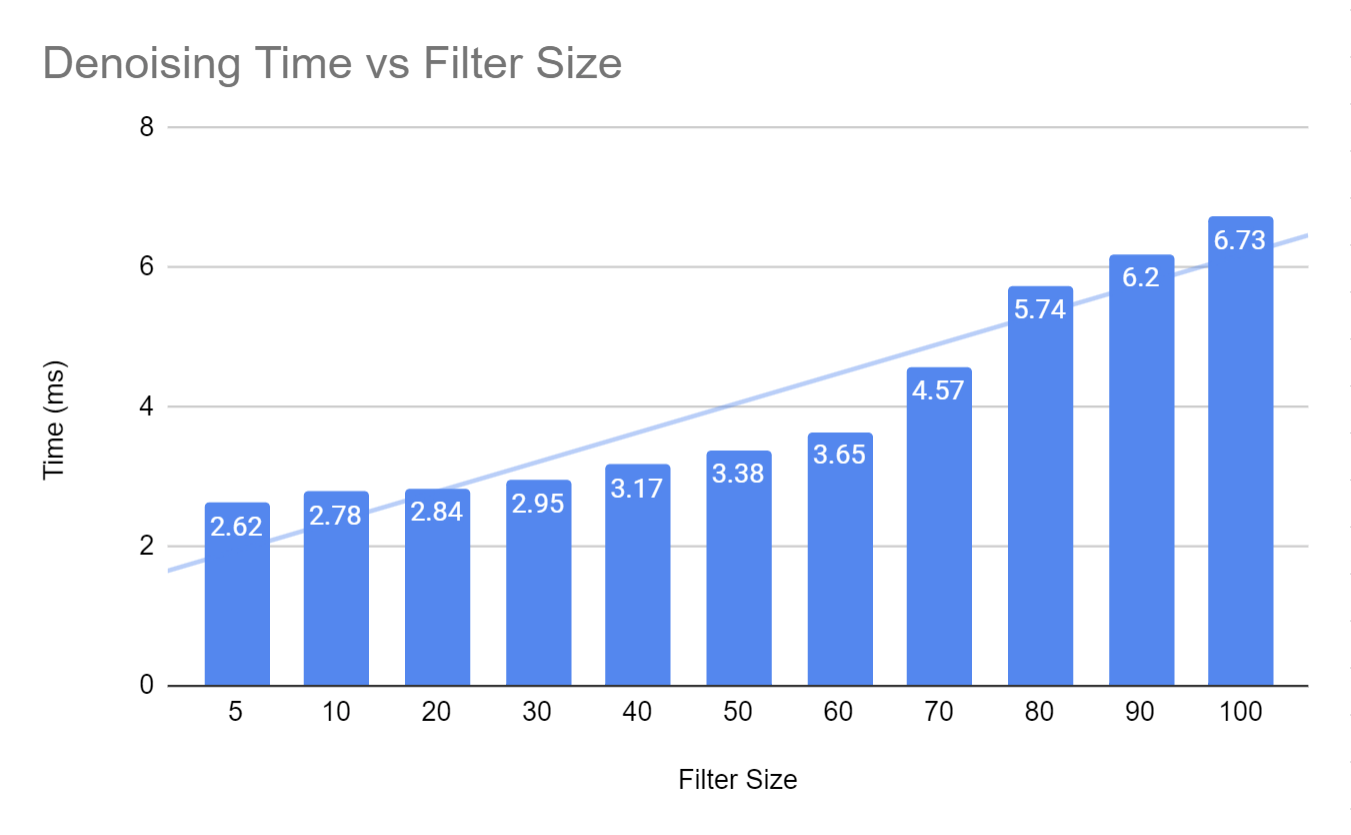
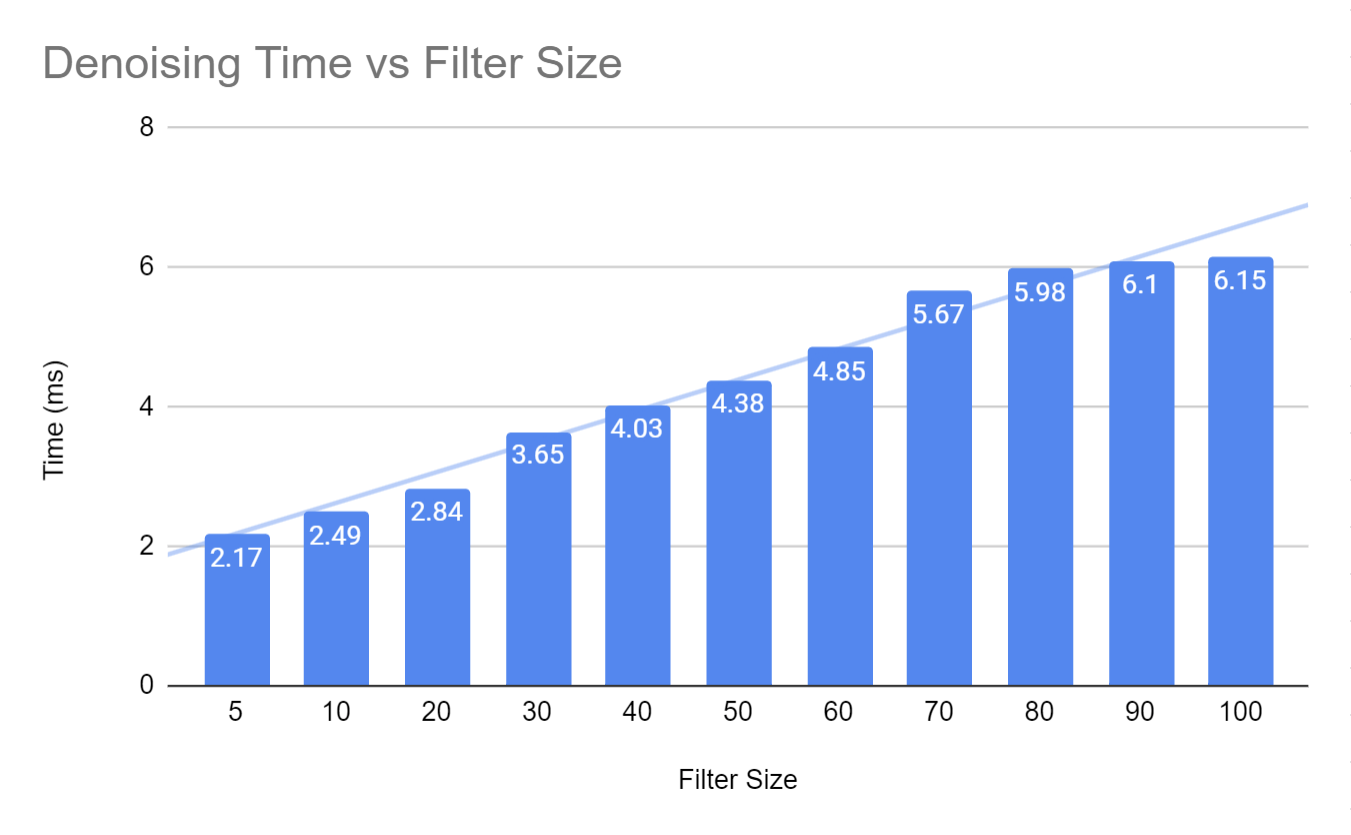
update readme

Changed region(s): [[0.1244, 0.2491, 0.9637, 0.685]]

diff --git a/README.md b/README.md
@@ -37,7 +37,7 @@ A denoised image with 30 iteratiions could qualify the naive path traced image w
 
 **How denoising at different resolutions impacts runtime**
 
-From the table below, we could see that the time for denoising increases almost linearly as the resolution increases.
+From the table below, we could see that the time for denoising increases linearly as the resolution increases. However, when the filter size reaches 80, the time becomes almost constant. 
 
   | Denoising time vs Resolution |
 |:--:|  
@@ -87,7 +87,7 @@ In my case, the denoiser works better in brighter scene. The reason is, with a l
 
 **Other scenes**
 
-We can see from the table below that the denoiser fails to work to render a bunny with ~50 samples. The problem can be mitigated when we switch to a small size filter.
+We can see from the table below that the denoiser fails to work to render a bunny with ~50 samples. The reason could be that too many triangles with different information are concentreted in a small range. The problem can be mitigated when we switch to a small size filter.
 
 
  
